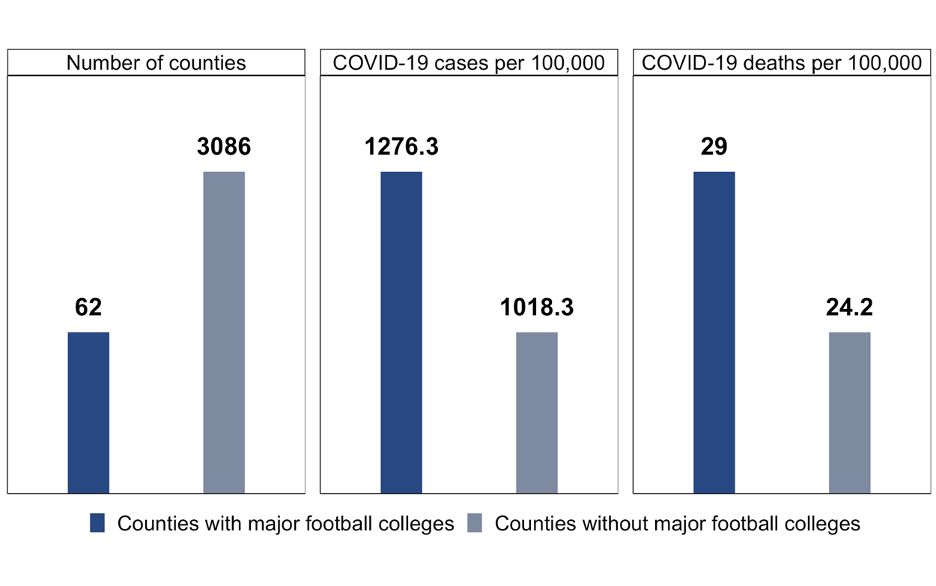
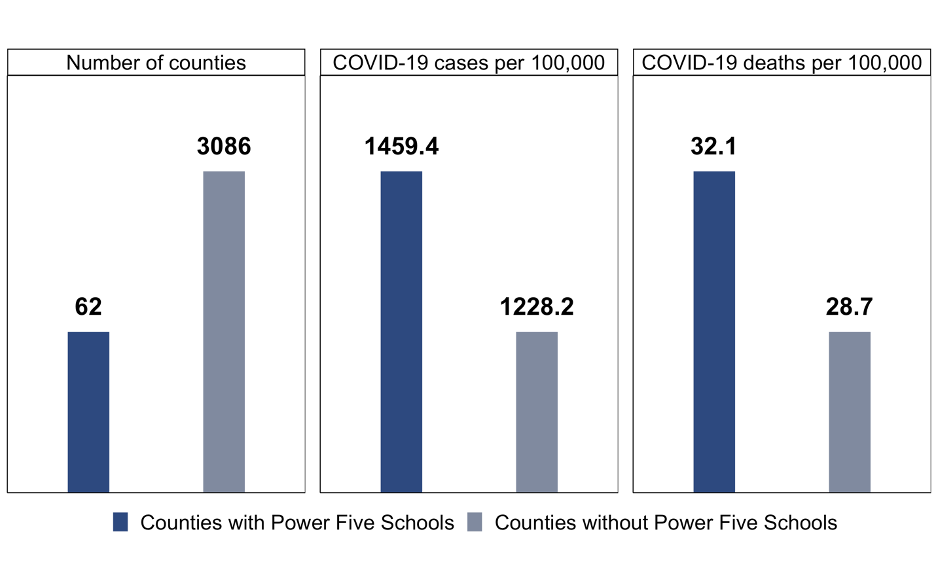
updated blog

diff --git a/src/components/Blog.js b/src/components/Blog.js
@@ -115,7 +115,7 @@ export default function AboutUs(props){
                 </Header>
 
                                 <center>      <Image width='800' height='500' src='/blog images/power five/Figure 2.png' /> </center>
-                                <p style = {{marginLeft: 0, fontSize: "14pt", fontWeight: 300, lineHeight: "16pt", lineSpacing: 0}}> Figure 2: COVID-19 outcomes in counties where each of the Power Five Conferences is located versus other counties where none are located. Data sources from the <a style ={{color: "#397AB9"}} href="https://www.nytimes.com/interactive/2020/us/coronavirus-us-cases.html" target="_blank" rel="noopener noreferrer"> New York Times Coronavirus (Covid-19) Data </a></p>
+                                <p style = {{marginLeft: 0, fontSize: "14pt", fontWeight: 300, lineHeight: "16pt", lineSpacing: 0}}> Figure 2: COVID-19 outcomes among counties where each of the Power Five Conference schools is located and counties where none are located. Data sources from the <a style ={{color: "#397AB9"}} href="https://www.nytimes.com/interactive/2020/us/coronavirus-us-cases.html" target="_blank" rel="noopener noreferrer"> New York Times Coronavirus (Covid-19) Data </a></p>
 
                 <Header style={{fontSize: "14pt", lineHeight: "16pt", fontWeight: 400, paddingTop: 0}}>
 
@@ -130,11 +130,11 @@ export default function AboutUs(props){
                       <br/>
                       <br/>
 
-                      Our data as of August 3, 2020 suggests that counties with the Power Five schools are more affected 
-                      by COVID-19. These counties have 23% higher COVID-19 cases per capita 
-                      and 18% higher COVID-19 deaths per capita than the rest of the country. Notably, the Atlantic Coast Conference 
+                      Our data as of August 16, 2020 suggests that counties with the Power Five schools are more affected 
+                      by COVID-19. These counties have 19% higher COVID-19 cases per capita 
+                      and 12% higher COVID-19 deaths per capita than the rest of the country. Notably, the Atlantic Coast Conference 
                       (ACC) and Southeastern Conference (SEC) schools are located in the counties most affected by COVID-19. Respectively, 
-                      these counties have approximately 27% and 52% more COVID-19 cases per capita than counties without the Power Five schools. 
+                      these counties have approximately 25% and 63% more COVID-19 cases per capita than counties without the Power Five schools. 
                       The Welch t-test demonstrates that these differences are indeed statistically significant. This raises 
                       the question of whether it would be safe to bring student-athletes back to counties that are already 
                       hard-hit by COVID-19.
